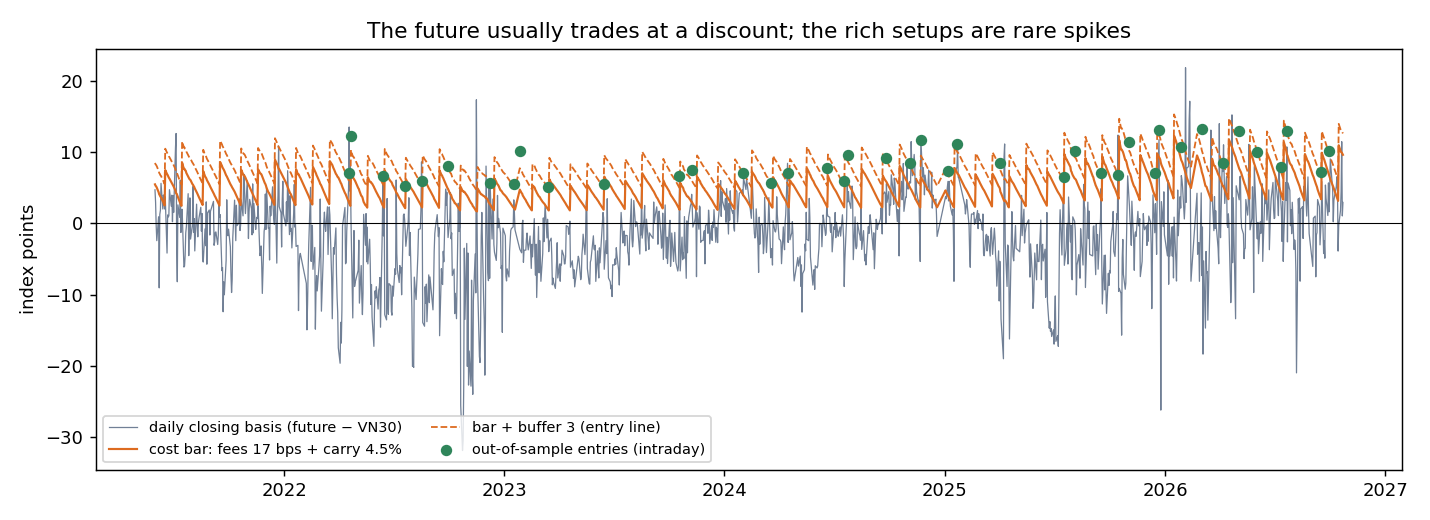
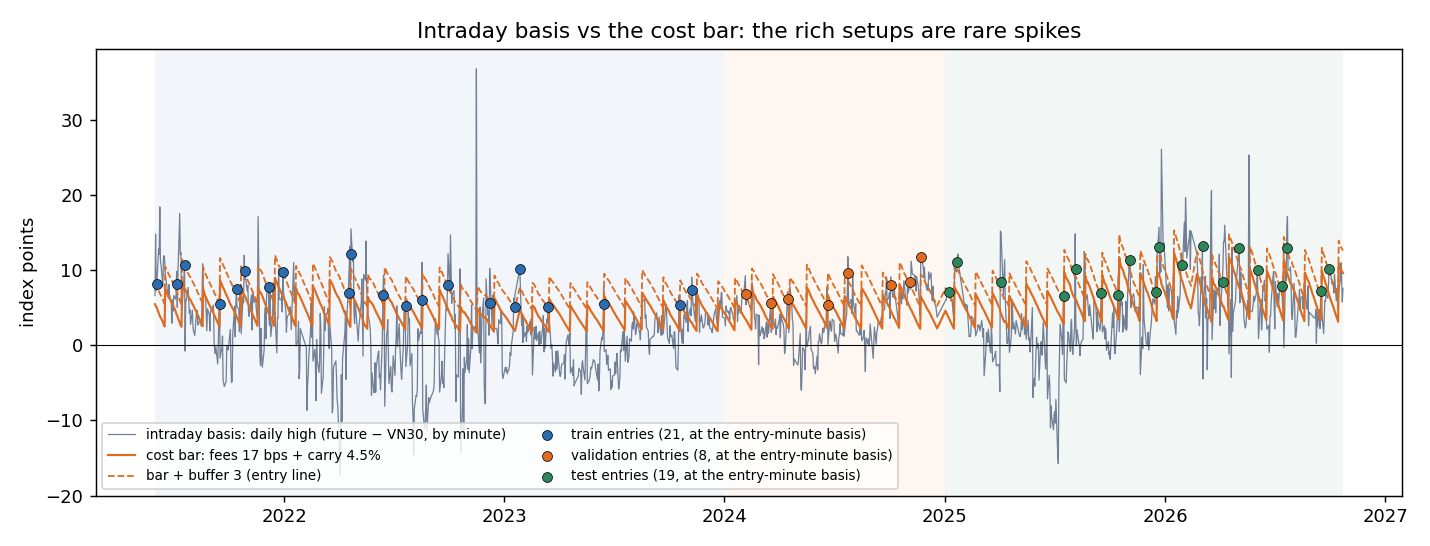
project5: figures 01 and 07 follow the train / validation / test split
01: the grey line is the daily high of the minute basis, the quantity the
entries are measured on; dots are the chosen rule's entries coloured by
train / validation / test (new result/holdout_split/chosen_trades.csv).
07: the 19 test trades (2025 → 2026-10) instead of the 2022–2026
walk-forward; moved to section 6e.

diff --git a/scripts/make_figures.py b/scripts/make_figures.py
@@ -1,15 +1,15 @@
 #!/usr/bin/env python3
 """project5 — README figures, built only from files already in data/raw and result/.
 
-  figures/01_basis_history.png     daily basis vs the fund cost bar, OOS entries marked
+  figures/01_basis_history.png     intraday basis vs the fund cost bar, train / validation / test entries
   figures/02_tracking.png          5-session tracking gap of the three hedge baskets
   figures/03_close_vs_nextopen.png basis captured: same-close fill vs next-open fill
   figures/04_waterfall.png         displayed → capturable basis → edge, intraday triggers, 5 s
   figures/05_edge_vs_delay.png     edge by fill delay, buffer 0 vs 3 (entries up to expiry day)
   figures/06_buffer_grid.png       whole-sample net/edge by buffer (comparison only), adopted rule
-  figures/07_oos_trades.png        out-of-sample trades of the adopted rule (5 s, up to expiry day)
+  figures/07_oos_trades.png        test trades of the train / validation / test split (5 s)
   figures/08_capacity.png          fill rate by size, P&L and return by target size, 5 s
-  figures/09_data_periods.png      in-sample / OOS / validation periods of the walk-forward
+  figures/09_data_periods.png      train / validation / test / paper-trading periods
 
 Usage:  python scripts/make_figures.py
 """
@@ -35,21 +35,38 @@ def save(fig, path: Path) -> None:
 
 
 def basis_history(R: Path, D: Path, out: Path, fee_bps: float, rate: float) -> None:
+    """Intraday basis (the daily high of the minute series) vs the cost bar, with the chosen
+    rule's entries at their entry-minute basis, by train / validation / test period."""
     f = pd.read_parquet(D / "vn30f_frontmonth.parquet")
     f["date"], f["expdate"] = pd.to_datetime(f["date"]), pd.to_datetime(f["expdate"])
-    f = f.drop_duplicates("date").sort_values("date")
-    basis = f["fut_close"] - f["vn30_index"]
-    bar = f["vn30_index"] * (fee_bps / 1e4 + rate * (f["expdate"] - f["date"]).dt.days / 365)
-    o = pd.read_csv(R / "walkforward_intraday_expiry" / "oos_trades.csv", parse_dates=["date"])
-    fig, ax = plt.subplots(figsize=(11, 4))
-    ax.plot(f["date"], basis, color=GREY, lw=0.7, label="daily closing basis (future − VN30)")
-    ax.plot(f["date"], bar, color=ORANGE, lw=1.2, label=f"cost bar: fees {fee_bps:g} bps + carry {rate:.1%}")
-    ax.plot(f["date"], bar + 3, color=ORANGE, lw=1, ls="--", label="bar + buffer 3 (entry line)")
-    ax.scatter(o["date"], o["disp"], color=GREEN, s=28, zorder=3, label="out-of-sample entries (intraday)")
+    expiry = f.groupby("contract")["expdate"].first()
+    m = pd.read_parquet(D / "intraday_basis_minute.parquet")
+    m["minute"] = pd.to_datetime(m["minute"])
+    hm = m["minute"].dt.hour * 100 + m["minute"].dt.minute
+    m = m[((hm >= 916) & (hm <= 1129)) | ((hm >= 1300) & (hm <= 1429))]   # continuous session
+    m["date"] = m["minute"].dt.normalize()
+    m["disp"] = m["fut_last"] - m["vn30"]
+    d = m.groupby("date").agg(high=("disp", "max"), vn30=("vn30", "last"), contract=("contract", "last"))
+    d["bar"] = d["vn30"] * (fee_bps / 1e4 + rate * (d["contract"].map(expiry) - d.index).dt.days / 365)
+    t = pd.read_csv(R / "holdout_split" / "chosen_trades.csv", parse_dates=["date"])
+    b = t["buffer"].iloc[0]
+
+    fig, ax = plt.subplots(figsize=(11, 4.2))
+    for k, (a, z) in {"train": ("2021-06-01", "2024-01-01"), "validation": ("2024-01-01", "2025-01-01"),
+                      "test": ("2025-01-01", str(d.index.max().date()))}.items():
+        ax.axvspan(pd.Timestamp(a), pd.Timestamp(z), color={"train": BLUE, "validation": ORANGE,
+                                                             "test": GREEN}[k], alpha=0.06, lw=0)
+    ax.plot(d.index, d["high"], color=GREY, lw=0.7, label="intraday basis: daily high (future − VN30, by minute)")
+    ax.plot(d.index, d["bar"], color=ORANGE, lw=1.2, label=f"cost bar: fees {fee_bps:g} bps + carry {rate:.1%}")
+    ax.plot(d.index, d["bar"] + b, color=ORANGE, lw=1, ls="--", label=f"bar + buffer {b:g} (entry line)")
+    for k, c in [("train", BLUE), ("validation", ORANGE), ("test", GREEN)]:
+        x = t[t["period"] == k]
+        ax.scatter(x["minute"].astype("datetime64[ns]"), x["disp"], color=c, edgecolor="black", lw=0.4,
+                   s=30, zorder=3, label=f"{k} entries ({len(x)}, at the entry-minute basis)")
     ax.axhline(0, color="black", lw=0.6)
     ax.set_ylabel("index points")
-    ax.set_title("The future usually trades at a discount; the rich setups are rare spikes")
-    ax.legend(loc="lower left", fontsize=8, ncol=2)
+    ax.set_title("Intraday basis vs the cost bar: the rich setups are rare spikes")
+    ax.legend(loc="lower left", fontsize=7.5, ncol=2)
     save(fig, out / "01_basis_history.png")
 
 
@@ -162,7 +179,7 @@ def buffer_grid(R: Path, out: Path) -> None:
 
 
 def oos_trades(R: Path, out: Path) -> None:
-    o = pd.read_csv(R / "walkforward_intraday_expiry" / "oos_trades.csv", parse_dates=["date"]).sort_values("date")
+    o = pd.read_csv(R / "holdout_split" / "test_trades.csv", parse_dates=["date"]).sort_values("date")
     fig, (a1, a2) = plt.subplots(2, 1, figsize=(11, 6), sharex=True, gridspec_kw={"height_ratios": [3, 2]})
     x = np.arange(len(o))
     a1.bar(x, o["edge"], color=BLUE, label=f"edge (mean {o['edge'].mean():+.2f})")
@@ -171,7 +188,8 @@ def oos_trades(R: Path, out: Path) -> None:
     a1.scatter(x, o["net"], color="black", s=14, zorder=3, label="net")
     a1.axhline(0, color="black", lw=0.6)
     a1.set_ylabel("points per contract")
-    a1.set_title("Out-of-sample trades (buffer 3 picked in every fold): the edge is steady, tracking is noise")
+    a1.set_title(f"Test trades 2025 → 2026-10 (rule from validation, buffer {o['buffer'].iloc[0]:g} from train, "
+                 "scored once): the edge is steady, tracking is noise", fontsize=10)
     a1.legend(fontsize=8, loc="upper left")
     a2.plot(x, o["edge"].cumsum(), color=BLUE, marker="o", ms=3, label="cumulative edge")
     a2.plot(x, o["net"].cumsum(), color="black", marker="o", ms=3, label="cumulative net")

diff --git a/scripts/holdout_split.py b/scripts/holdout_split.py
@@ -42,6 +42,7 @@ filled from the database for any trigger minute it lacks.
 Outputs (--outdir, default result/holdout_split/):
   variants.csv   every variant: train buffer, train/validation results
   test_trades.csv the test trades of the frozen rule
+  chosen_trades.csv the chosen rule's trades in train, validation and test
   FINDINGS.md
 
 Usage:
@@ -234,6 +235,9 @@ def main() -> None:
     args.outdir.mkdir(parents=True, exist_ok=True)
     var.sort_values("val_total", ascending=False).to_csv(args.outdir / "variants.csv", index=False)
     test.reset_index().assign(buffer=b_final).to_csv(args.outdir / "test_trades.csv", index=False)
+    chosen = trades(f, v, b_final)
+    pd.concat([period(chosen, k).assign(period=k) for k in PERIODS]).reset_index() \
+        .assign(buffer=b_final).to_csv(args.outdir / "chosen_trades.csv", index=False)
 
     vnd = args.multiplier / 1e6
     top = var.sort_values(["val_total", "filters", "buffer"], ascending=[False, True, True]).head(10)

diff --git a/README.md b/README.md
@@ -111,10 +111,14 @@ Data facts that shaped the design:
 
 ![basis history](figures/01_basis_history.png)
 
-*Daily closing basis since 2021-06. The future usually trades at a **discount** (median
-−1.3 pts); only ~2% of days close at +8 or more. The orange line is the fund-cost bar (17
+*Intraday basis since 2021-06: the grey line is each day's highest minute basis (future −
+VN30, continuous session), the same quantity the entries are measured on. The future
+usually trades at a **discount** (median minute basis −1.1 pts), and the intraday high
+reaches the entry line on only ~15% of days. The orange line is the fund-cost bar (17
 bps + 4.5% carry), which saw-tooths down into each expiry as carry runs off. The dashed
-line is the entry line (bar + 3). Green dots are the 41 out-of-sample intraday entries of the adopted rule (each contract's first trigger, at its intraday basis).*
+line is the entry line (bar + 3). Dots are the chosen rule's entries (each contract's
+first trigger, at its entry-minute basis), coloured by period: train 2021-06 → 2023 (21),
+validation 2024 (8), test 2025 → 2026-10 (19).*
 
 ## Step 3 — Data processing: the hedge basket
 
@@ -269,8 +273,6 @@ while the basket is sold at each name's close, with dividends via adjusted/raw c
 
 **Stitched OOS: 41 trades, +242 pts (24.2m VND per contract), mean +5.89, t +2.84, 78% positive.**
 
-![oos trades](figures/07_oos_trades.png)
-
 - **Buffer 3 is picked in every fold**; the volatility filter never is. The one tuned
   parameter is stable out of sample.
 - The **edge** is the strategy: +2.05 pts/trade, t +10.6, 93% positive.
@@ -393,6 +395,8 @@ were not used to change the rule, the selection is redone on a fixed protocol:
 | 30 s | 19 | +158.5 | +8.34 | 1.93 | 74% |
 | 60 s | 19 | +154.1 | +8.11 | 1.88 | 74% |
 
+![test trades](figures/07_oos_trades.png)
+
 The test edge (exec − bar) is **+1.85 pts per trade (t 6.1)**, in line with the
 walk-forward (+2.05). Most of the net comes from tracking (+6.88 per trade), which is
 noise. Expect ~1.9 pts per trade, not 8.7. The earlier adopted rule (no 14:15 cut-off)
@@ -491,7 +495,7 @@ python scripts/make_figures.py
 | `result/intraday*/` | intraday capturability: `events.csv` (trigger × delay × size), summary, by year, by size |
 | `result/walkforward_intraday_expiry*/` | steps 5–6, adopted rule (entries up to expiry day) at 5 / 30 / 60 s, plus the 60 s 14:15 cut-off: `trades.csv` (every combo), `grid.csv`, `folds.csv`, `oos_trades.csv`, `FINDINGS.md` |
 | `result/walkforward_intraday{,_delay5,_delay30}/` | the first rule (≥ 7 days to expiry) at 60 / 5 / 30 s, same files |
-| `result/holdout_split/` | train / validation / test: `variants.csv` (every candidate, train buffer, validation score), `test_trades.csv`, `FINDINGS.md` |
+| `result/holdout_split/` | train / validation / test: `variants.csv` (every candidate, train buffer, validation score), `test_trades.csv`, `chosen_trades.csv` (the chosen rule in all three periods), `FINDINGS.md` |
 | `result/capacity_5s/` | fills by size per trigger, P&L/capital by target (adopted rule, 5 s); `result/capacity/` is the first rule at 60 s |
 | `figures/` | the README charts (`make_figures.py`) |
 
